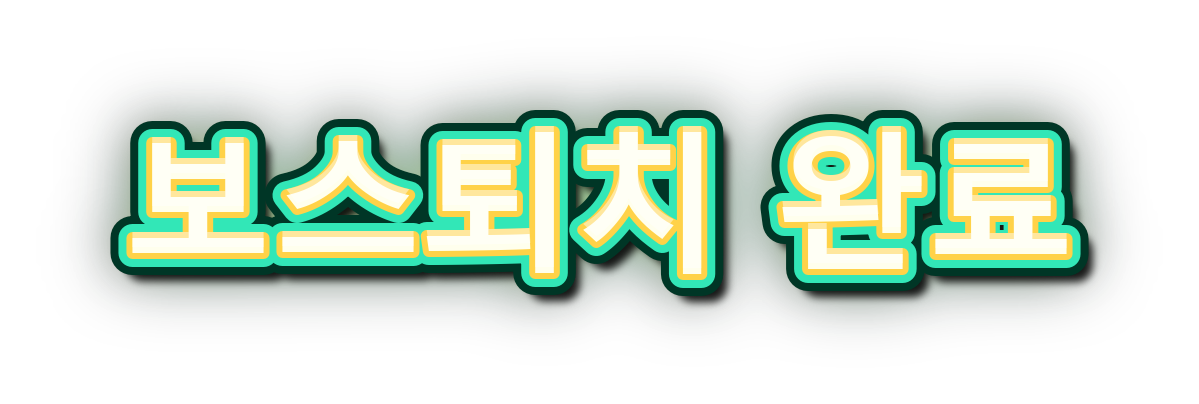
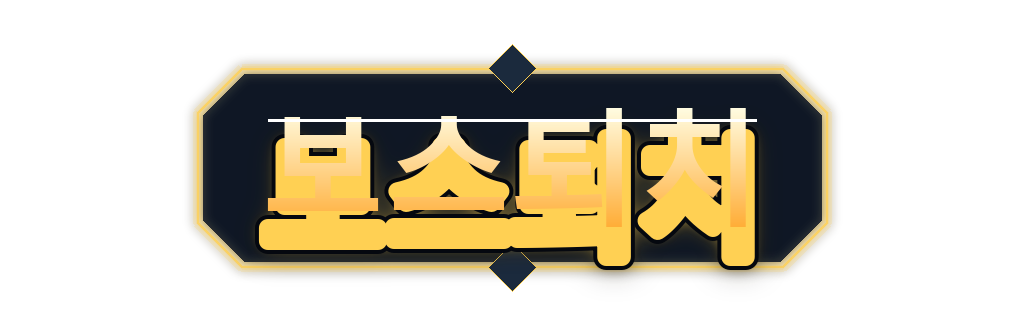
Update training prompts and boss text UI

diff --git a/src/main.js b/src/main.js
@@ -339,7 +339,7 @@ const monsterTypes = [
     image: "/assets/monsters/spread-seat-guy.png?v=20260619b",
     color: "#7b2cbf",
     trim: "#c77dff",
-    hp: 192,
+    hp: 230,
     speed: 45,
     damage: 14,
     radius: 62 * 0.364,
@@ -357,7 +357,7 @@ const monsterTypes = [
     image: "/assets/monsters/phone-woman.png?v=20260619b",
     color: "#00a896",
     trim: "#80ffdb",
-    hp: 96,
+    hp: 115,
     speed: 80,
     damage: 8,
     radius: 62 * 0.294,
@@ -375,7 +375,7 @@ const monsterTypes = [
     image: "/assets/monsters/pushy-aunt.png?v=20260619b",
     color: "#f77f00",
     trim: "#ffbe0b",
-    hp: 144,
+    hp: 173,
     speed: 105,
     damage: 10,
     radius: 62 * 0.28,
@@ -393,7 +393,7 @@ const monsterTypes = [
     image: "/assets/monsters/wall-man.png?v=20260619b",
     color: "#1d3557",
     trim: "#48cae4",
-    hp: 264,
+    hp: 317,
     speed: 30,
     damage: 10,
     radius: 62 * 0.42,
@@ -411,7 +411,7 @@ const monsterTypes = [
     image: "/assets/monsters/backpack-spinner.png?v=20260619b",
     color: "#2d6a4f",
     trim: "#95d5b2",
-    hp: 132,
+    hp: 158,
     speed: 90,
     damage: 15,
     radius: 62 * 0.322,
@@ -429,7 +429,7 @@ const monsterTypes = [
     image: "/assets/monsters/speakerphone-man.png?v=20260619b",
     color: "#c9184a",
     trim: "#ff8fab",
-    hp: 168,
+    hp: 202,
     speed: 60,
     damage: 12,
     radius: 62 * 0.294,
@@ -449,7 +449,7 @@ const bossTypes = [
     image: "/assets/bosses/airport-thief-boss.png",
     color: "#704214",
     trim: "#ffca3a",
-    hp: 3276,
+    hp: 3931,
     speed: 58,
     damage: 25,
     radius: 50,
@@ -463,7 +463,7 @@ const bossTypes = [
     image: "/assets/bosses/jarvan-84.png",
     color: "#d4a017",
     trim: "#7b2cbf",
-    hp: 3822,
+    hp: 4586,
     speed: 58,
     damage: 25,
     radius: 60,
@@ -477,7 +477,7 @@ const bossTypes = [
     image: "/assets/bosses/danso-assassin.png",
     color: "#0077b6",
     trim: "#f9c74f",
-    hp: 3367,
+    hp: 4040,
     speed: 58,
     damage: 25,
     radius: 54,
@@ -491,7 +491,7 @@ const bossTypes = [
     image: "/assets/bosses/praise-man.png",
     color: "#6f42c1",
     trim: "#c77dff",
-    hp: 3250,
+    hp: 3900,
     speed: 58,
     damage: 25,
     radius: 54,
@@ -505,7 +505,7 @@ const bossTypes = [
     image: "/assets/bosses/bubblegum-woman.png",
     color: "#b5179e",
     trim: "#ff8fab",
-    hp: 3484,
+    hp: 4181,
     speed: 58,
     damage: 25,
     radius: 58,
@@ -896,7 +896,10 @@ function renderTrainingPanel() {
       <em>${getTrainingStars(level)} / 다음 비용 ${nextCost}</em>
     `;
   }
+  refs.trainingPanel?.querySelector(".training-floating-confirm")?.remove();
   refs.trainingList.innerHTML = "";
+  let confirmingSkill = null;
+  let confirmingCost = 0;
   for (const skill of skills) {
     const display = getUpgradeDisplay(skill);
     const level = getTrainingSkillLevel(skill.id);
@@ -907,20 +910,8 @@ function renderTrainingPanel() {
     const wrapper = document.createElement("div");
     wrapper.className = `training-card-wrap ${isConfirming ? "confirming" : ""}`;
     if (isConfirming) {
-      const confirm = document.createElement("div");
-      confirm.className = "training-confirm training-card-confirm";
-      confirm.innerHTML = `<i aria-hidden="true"></i><p>${formatScore(cost)} TA머니 포인트를<br>사용하여 강화</p><div class="training-confirm-actions"><button class="training-confirm-buy" type="button">강화</button><button class="training-confirm-cancel" type="button">취소</button></div>`;
-      confirm.querySelector(".training-confirm-buy")?.addEventListener("click", (event) => {
-        event.stopPropagation();
-        buyTrainingSkill(skill);
-      });
-      confirm.querySelector(".training-confirm-cancel")?.addEventListener("click", (event) => {
-        event.stopPropagation();
-        game.trainingConfirmSkillId = "";
-        renderTrainingPanel();
-        playSound("ui");
-      });
-      wrapper.append(confirm);
+      confirmingSkill = skill;
+      confirmingCost = cost;
     }
     const button = document.createElement("button");
     const type = getUpgradeType(skill);
@@ -950,6 +941,22 @@ function renderTrainingPanel() {
     });
     wrapper.append(button);
     refs.trainingList.append(wrapper);
+  }
+  if (confirmingSkill && refs.trainingPanel) {
+    const confirm = document.createElement("div");
+    confirm.className = "training-confirm training-floating-confirm";
+    confirm.innerHTML = `<i aria-hidden="true"></i><p>${formatScore(confirmingCost)} T money 포인트를 사용하여 강화</p><div class="training-confirm-actions"><button class="training-confirm-buy" type="button">강화</button><button class="training-confirm-cancel" type="button">취소</button></div>`;
+    confirm.querySelector(".training-confirm-buy")?.addEventListener("click", (event) => {
+      event.stopPropagation();
+      buyTrainingSkill(confirmingSkill);
+    });
+    confirm.querySelector(".training-confirm-cancel")?.addEventListener("click", (event) => {
+      event.stopPropagation();
+      game.trainingConfirmSkillId = "";
+      renderTrainingPanel();
+      playSound("ui");
+    });
+    refs.trainingPanel.append(confirm);
   }
 }
 
@@ -1039,7 +1046,7 @@ function closeTrainingPanel() {
       game.paused = false;
     }
     updateHud();
-  }, 930);
+  }, 620);
   playSound("ui");
 }
 
@@ -2079,8 +2086,7 @@ function getEncircleOffscreenPoint(angle, extraDistance = 120) {
 }
 
 function spawnCommuteProtestStage() {
-  showBossBanner("출근길 시위 시작");
-  addPopup("출근길 시위 시작", player.x, player.y - 96, "#fff3b0", 2.0, 24);
+  showBossBanner("출근길 시위대");
   playSound("boss");
 
   const count = 100;
@@ -2089,7 +2095,7 @@ function spawnCommuteProtestStage() {
   for (let i = 0; i < count; i += 1) {
     const angle = (TAU * i) / count + rand(-0.06, 0.06);
     const point = getEncircleOffscreenPoint(angle, 130 + (i % 5) * 18);
-    const hp = 416 * hpScale;
+    const hp = 499 * hpScale;
     enemies.push({
       id: "commute-protest",
       name: "출근길 시위대",
@@ -2205,14 +2211,14 @@ function spawnBoss() {
   boss.radius = (base.radius + Math.min(14, bossIndex * 2)) * BOSS_SIZE_SCALE;
   bossIndex += 1;
   showBossBanner(base.name, { boss: true });
-  addPopup("보스 등장", player.x, player.y - 90, "#ffe066", 1.8, 28);
   playSound("boss");
   updateBgm();
 }
 
 const uiTextAssets = {
   "보스출현": "/assets/ui/text-gpt2-style/boss-appear-gpt2.png",
-  "보스퇴치 완료": "/assets/ui/text-gpt2-style/boss-clear.png",
+  "보스퇴치": "/assets/ui/text-gpt2-style/boss-clear.png",
+  "출근길 시위대": "/assets/ui/text-gpt2-style/commute-protest.png",
   "칭찬남": "/assets/ui/text-gpt2-style/boss-praise.png",
   "공항도둑": "/assets/ui/text-gpt2-style/boss-airport.png",
   "자르반 84세": "/assets/ui/text-gpt2-style/boss-jarvan.png",
@@ -2255,8 +2261,8 @@ function updateBossSchedule() {
 function showBossBanner(name, { boss = false, clear = false } = {}) {
   window.clearTimeout(bossBannerTimer);
   window.clearTimeout(bossBannerNameTimer);
-  const bossNameDelay = 825;
-  const bossNameDuration = 2700;
+  const bossNameDelay = 1650;
+  const bossNameDuration = 1890;
   refs.bossBanner.classList.toggle("boss-alert", boss);
   refs.bossBanner.classList.toggle("boss-clear", clear);
   refs.bossBanner.classList.remove("name-phase");
@@ -3820,7 +3826,7 @@ function killEnemy(enemy) {
   if (enemy.boss) {
     player.bossKills += 1;
     addTmoneyPoints(player.bossKills * 100, enemy.x, enemy.y - 18, "보스 보너스");
-    showBossBanner("보스퇴치 완료", { clear: true });
+    showBossBanner("보스퇴치", { clear: true });
     playSound("bossKill");
     speakSystemVoice("보스 퇴치 완료", 1600);
     dropBossRewardItems(enemy);

diff --git a/src/styles.css b/src/styles.css
@@ -884,7 +884,7 @@ button {
 
 .boss-banner.boss-alert.active {
   animation: boss-alert-pop 2625ms ease both;
-  opacity: 0.84;
+  opacity: 0.72;
 }
 
 .boss-banner.boss-alert span {
@@ -931,7 +931,7 @@ button {
     filter: brightness(1.45);
   }
   10% {
-    opacity: 0.84;
+    opacity: 0.72;
     transform: translate(-50%, -50%) scale(1.08);
   }
   18% {
@@ -939,7 +939,7 @@ button {
   }
   28%,
   78% {
-    opacity: 0.82;
+    opacity: 0.7;
     transform: translate(-50%, -50%) scale(1);
     filter: brightness(1);
   }
@@ -1573,22 +1573,12 @@ button {
 
 .training-panel.closing {
   pointer-events: none;
-  animation: training-panel-fade 930ms ease both;
+  animation: training-panel-fade 620ms ease both;
+  background: rgba(5, 7, 8, 0);
 }
 
 .training-panel.closing::after {
-  content: "";
-  position: absolute;
-  left: 50%;
-  top: 50%;
-  width: 150px;
-  height: 150px;
-  border-radius: 50%;
-  background: radial-gradient(circle, rgba(128, 255, 219, 0.22), transparent 62%);
-  transform: translate(calc(-50% + var(--training-suck-x, 0px)), calc(-50% + var(--training-suck-y, 0px))) scale(0.2);
-  opacity: 0;
-  animation: training-target-glow 930ms ease both;
-  will-change: transform, opacity;
+  content: none;
 }
 
 .training-shell {
@@ -1607,7 +1597,8 @@ button {
 
 .training-panel.closing .training-shell {
   transform-origin: center center;
-  animation: training-suck-to-button 930ms cubic-bezier(0.22, 0.86, 0.18, 1) both;
+  animation: training-suck-to-button 620ms cubic-bezier(0.22, 0.86, 0.18, 1) both;
+  box-shadow: none;
   will-change: transform, opacity;
 }
 
@@ -1855,6 +1846,55 @@ button {
 .training-card-confirm .training-confirm-actions button {
   min-height: 34px;
   font-size: 13px;
+}
+
+.training-floating-confirm {
+  position: absolute;
+  z-index: 40;
+  left: 50%;
+  top: 50%;
+  width: min(82%, 330px);
+  min-height: 150px;
+  margin: 0;
+  padding: 40px 18px 18px;
+  transform: translate(-50%, -50%);
+  border-color: rgba(255, 225, 130, 0.72);
+  background:
+    linear-gradient(180deg, rgba(6, 18, 31, 0.88), rgba(5, 8, 14, 0.92)),
+    url("/assets/ui/training-confirm-gpt2.png") center / 122% auto no-repeat;
+  backdrop-filter: blur(5px);
+  box-shadow: 0 22px 58px rgba(0, 0, 0, 0.66), 0 0 34px rgba(255, 209, 102, 0.32), inset 0 0 24px rgba(0, 217, 255, 0.12);
+  animation: training-floating-confirm-pop 180ms ease-out both;
+  pointer-events: auto;
+}
+
+.training-floating-confirm p {
+  font-size: 14px;
+  line-height: 1.3;
+  word-break: keep-all;
+  color: #fff7c2;
+  opacity: 1;
+}
+
+.training-floating-confirm .training-confirm-actions {
+  margin-top: 16px;
+  gap: 10px;
+}
+
+.training-floating-confirm .training-confirm-actions button {
+  min-height: 38px;
+  font-size: 14px;
+}
+
+@keyframes training-floating-confirm-pop {
+  from {
+    opacity: 0;
+    transform: translate(-50%, calc(-50% + 8px)) scale(0.94);
+  }
+  to {
+    opacity: 1;
+    transform: translate(-50%, -50%) scale(1);
+  }
 }
 
 @keyframes training-confirm-pop {

diff --git a/index.html b/index.html
@@ -144,7 +144,7 @@
         <div class="training-shell">
           <div class="training-head">
             <div>
-              <span>T머니 잔액</span>
+              <span>T money 잔액</span>
               <strong id="tmoneyBalance">750</strong>
             </div>
             <button id="trainingCloseButton" type="button">닫기</button>
